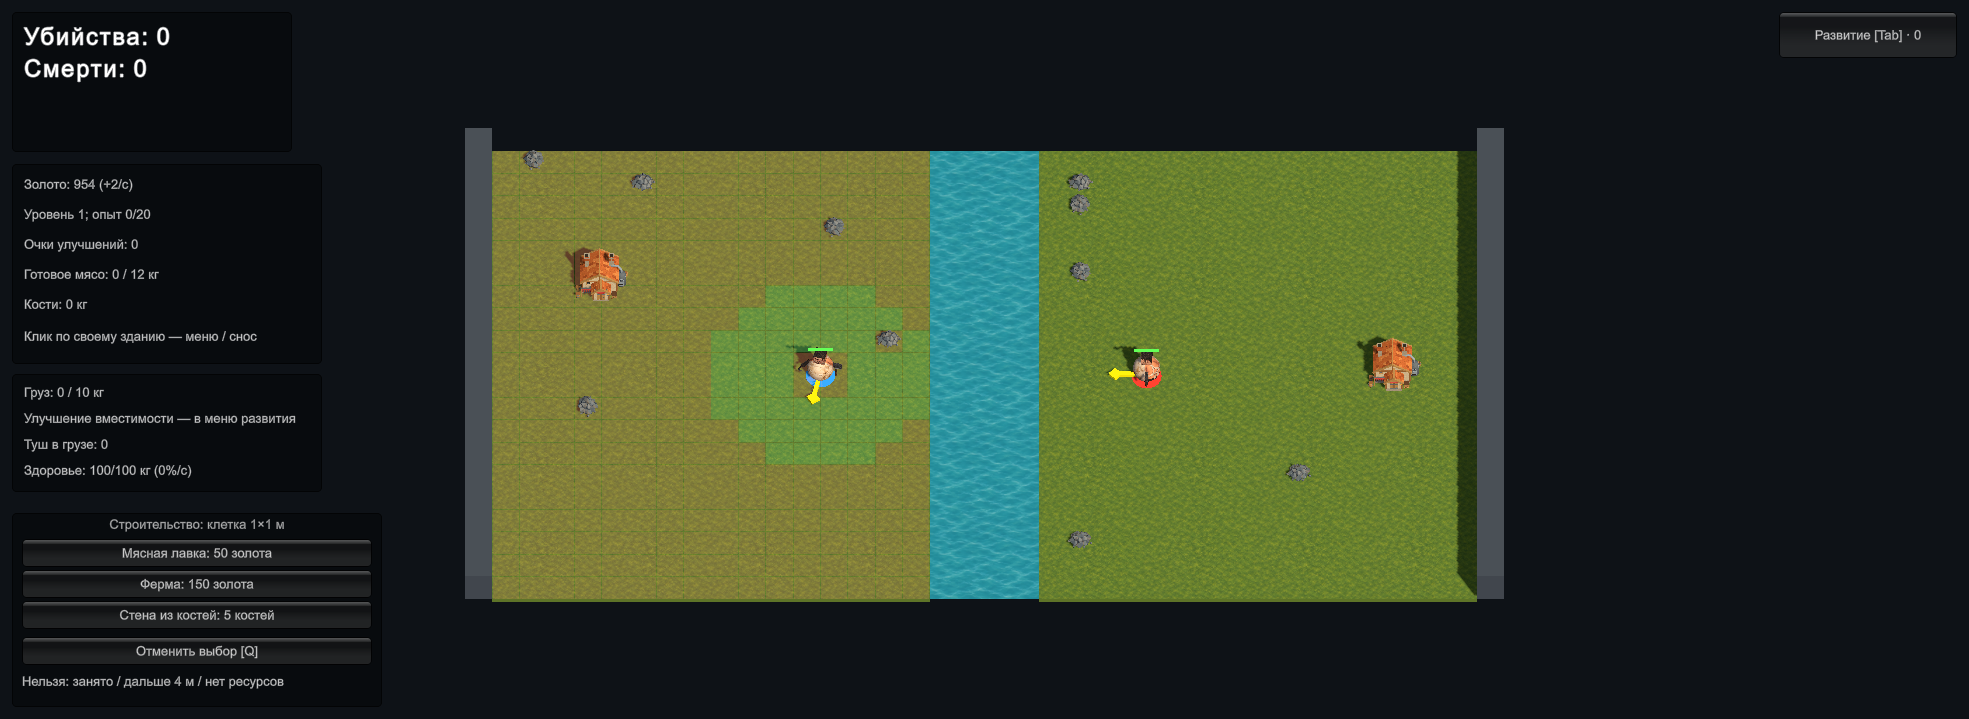
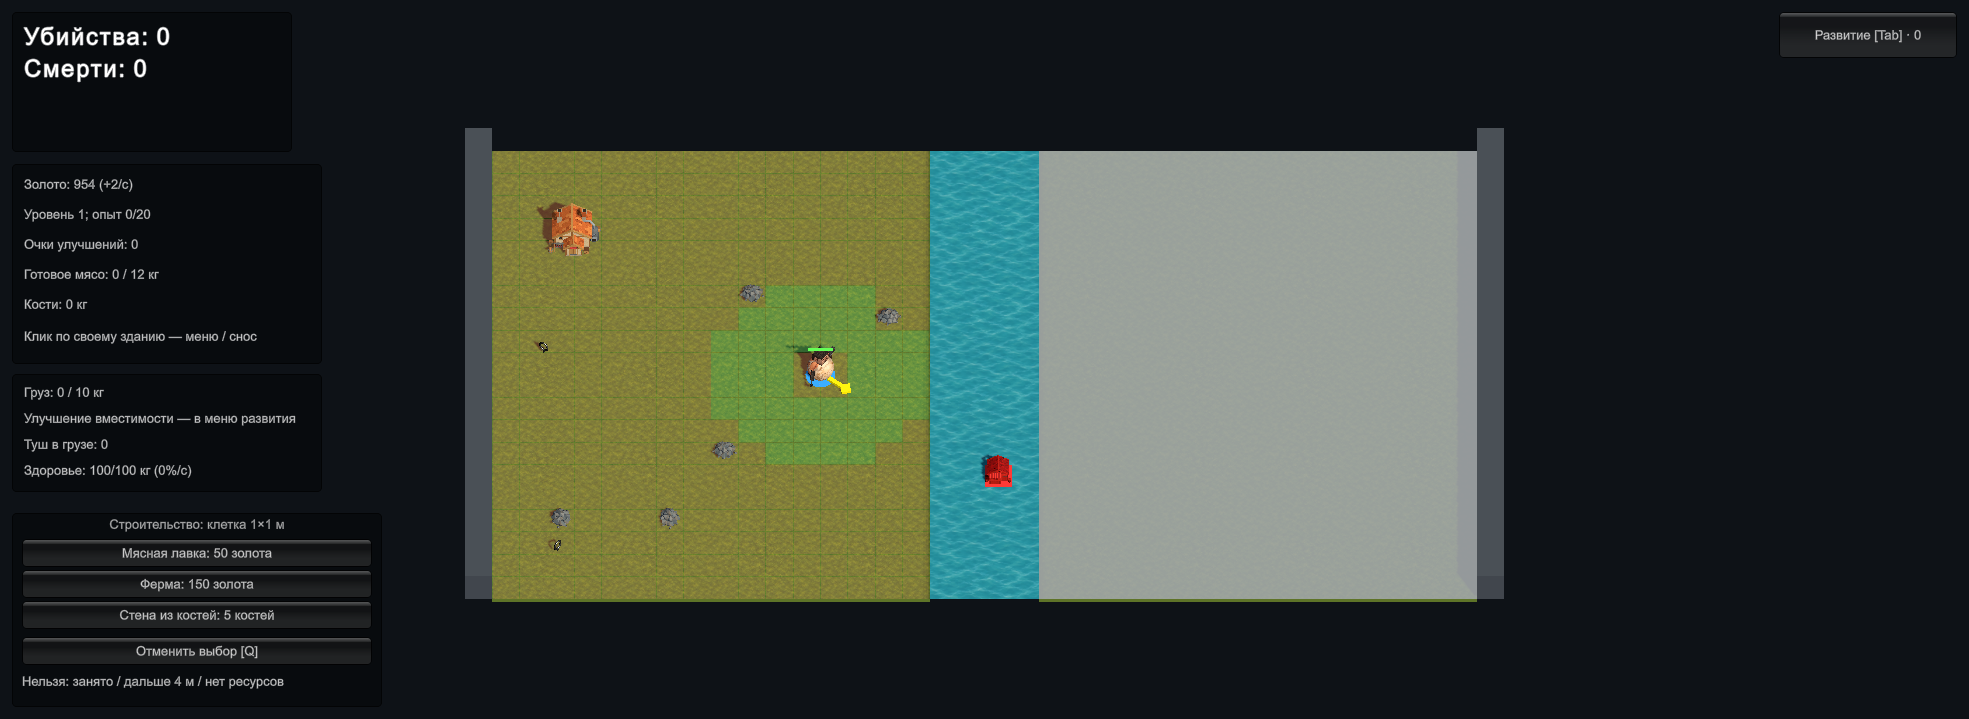
Add player fog of war with hero and hook reveals and shoreline shading

diff --git a/Assets/Scripts/FogOfWar25D.cs b/Assets/Scripts/FogOfWar25D.cs
@@ -1,0 +1,110 @@
+using System.Collections.Generic;
+using UnityEngine;
+using UnityEngine.Rendering;
+
+// Player-perspective visibility. No physics, target selection or persistent exploration.
+[DefaultExecutionOrder(1700)]
+public sealed class FogOfWar25D : MonoBehaviour
+{
+    private ArenaPresentation25D display;
+    private PlayerBuilding viewer;
+    private PlayerProgression owner;
+    private Material material;
+    private Mesh mesh;
+    private Color[] colors;
+    private Vector2[] points;
+    private float depth;
+    private float nextPaint;
+    private readonly List<Vector2> eyes=new List<Vector2>();
+    private readonly List<Vector2> routeStart=new List<Vector2>(),routeEnd=new List<Vector2>();
+    private readonly Dictionary<GameObject,Renderer[]> renderers=new Dictionary<GameObject,Renderer[]>();
+    private readonly Dictionary<Light,int> lightMasks=new Dictionary<Light,int>();
+    private readonly List<GameObject> retired=new List<GameObject>();
+    public const float HeroRadius=4,HookRadius=1;
+    public void Bind(ArenaPresentation25D presentation,PlayerBuilding player,Material template)
+    {
+        display=presentation;viewer=player;owner=viewer.GetComponent<PlayerProgression>();
+        material=new Material(template);material.SetFloat("_UseVertexColor",1);material.SetColor("_BaseColor",Color.white);material.renderQueue=3010;
+        mesh=new Mesh{name="Enemy bank fog"};mesh.MarkDynamic();gameObject.AddComponent<MeshFilter>().sharedMesh=mesh;
+        var renderer=gameObject.AddComponent<MeshRenderer>();renderer.sharedMaterial=material;renderer.shadowCastingMode=ShadowCastingMode.Off;renderer.receiveShadows=false;
+        BuildMesh();RefreshObservers();
+    }
+    private bool Friendly(Health h)=>h.GetComponent<PlayerProgression>()==owner||h.GetComponent<ButcherHelper>()?.Factory?.Owner==owner;
+    public void RefreshObservers()
+    {
+        eyes.Clear();routeStart.Clear();routeEnd.Clear();
+        foreach(var h in FindObjectsByType<Health>())
+            if(!h.IsDead&&Friendly(h)&&Mathf.Abs(h.transform.position.x)>=ArenaLayout.RiverHalfWidth&&(h.transform.position.x>0)!=viewer.HomeRightBank)eyes.Add(h.transform.position);
+        foreach(var hook in FindObjectsByType<HookAbility>())
+        {
+            if(hook.ActiveHook==null||hook.GetComponent<PlayerProgression>()!=owner)continue;
+            for(int i=1;i<hook.ChainPointCount;i++){routeStart.Add(hook.GetChainPoint(i-1));routeEnd.Add(hook.GetChainPoint(i));}
+        }
+    }
+    private float SignedDistance(Vector2 point)
+    {
+        float distance=float.PositiveInfinity;
+        foreach(var eye in eyes)distance=Mathf.Min(distance,Vector2.Distance(eye,point)-HeroRadius);
+        for(int i=0;i<routeStart.Count;i++)
+        {
+            Vector2 a=routeStart[i],d=routeEnd[i]-a;
+            float t=d.sqrMagnitude>.000001f?Mathf.Clamp01(Vector2.Dot(point-a,d)/d.sqrMagnitude):0;
+            distance=Mathf.Min(distance,Vector2.Distance(a+d*t,point)-HookRadius);
+        }
+        return distance;
+    }
+    public bool IsRevealed(Vector2 point)=>Mathf.Abs(point.x)<=ArenaLayout.RiverHalfWidth||(point.x>0)==viewer.HomeRightBank||SignedDistance(point)<=0;
+    private bool WorldVisible(Vector3 point)=>IsRevealed(ArenaSpace25D.ToLogical(point));
+    private void BuildMesh()
+    {
+        depth=ArenaLayout.Depth;var bank=ArenaLayout.BankBounds(!viewer.HomeRightBank,0);
+        var vertices=new List<Vector3>();var triangles=new List<int>();var logical=new List<Vector2>();
+        const float step=.25f;
+        for(float x=bank.xMin;x<bank.xMax-.001f;x+=step)for(float y=bank.yMin;y<bank.yMax-.001f;y+=step)
+        {
+            int n=vertices.Count;
+            foreach(var p in new[]{new Vector2(x,y),new Vector2(x,y+step),new Vector2(x+step,y+step),new Vector2(x+step,y)})
+            {logical.Add(p);vertices.Add(ArenaSpace25D.ToWorld(p,.025f));}
+            triangles.Add(n);triangles.Add(n+1);triangles.Add(n+2);triangles.Add(n);triangles.Add(n+2);triangles.Add(n+3);
+        }
+        points=logical.ToArray();colors=new Color[points.Length];mesh.Clear();mesh.SetVertices(vertices);mesh.SetTriangles(triangles,0);mesh.RecalculateBounds();nextPaint=0;
+    }
+    private void LateUpdate()
+    {
+        if(viewer==null||display==null)return;
+        if(depth!=ArenaLayout.Depth)BuildMesh();
+        RefreshObservers();
+        if(Time.unscaledTime>=nextPaint)
+        {
+            nextPaint=Time.unscaledTime+.08f;
+            for(int i=0;i<points.Length;i++)
+            {
+                float alpha=.78f*Mathf.SmoothStep(0,1,Mathf.Clamp01(SignedDistance(points[i])/.35f));
+                colors[i]=new Color(.38f,.40f,.42f,alpha);
+            }
+            mesh.colors=colors;
+        }
+        foreach(var pair in display.Views)
+        {
+            if(pair.Key==null||pair.Value==null)continue;
+            bool visible=IsRevealed(pair.Key.transform.position);
+            if(!renderers.TryGetValue(pair.Value,out var list)||pair.Key is Health)
+            {list=pair.Value.GetComponentsInChildren<Renderer>(true);renderers[pair.Value]=list;}
+            foreach(var renderer in list)if(renderer!=null)renderer.forceRenderingOff=!visible;
+            foreach(var light in pair.Value.GetComponentsInChildren<Light>(true))
+            {
+                if(!lightMasks.TryGetValue(light,out int mask)){mask=light.cullingMask;lightMasks.Add(light,mask);}
+                light.cullingMask=visible?mask:0;
+            }
+        }
+        foreach(var chain in FindObjectsByType<HookChain25D>())foreach(var span in chain.Spans)span.SetPresentationVisibility(WorldVisible);
+        retired.Clear();foreach(var pair in renderers)if(pair.Key==null)retired.Add(pair.Key);foreach(var old in retired)renderers.Remove(old);
+    }
+    private void OnDisable()
+    {
+        foreach(var list in renderers.Values)foreach(var renderer in list)if(renderer!=null)renderer.forceRenderingOff=false;
+        foreach(var pair in lightMasks)if(pair.Key!=null)pair.Key.cullingMask=pair.Value;
+        foreach(var chain in FindObjectsByType<HookChain25D>())foreach(var span in chain.Spans)span.SetPresentationVisibility(_=>true);
+    }
+    private void OnDestroy(){if(mesh!=null)Destroy(mesh);if(material!=null)Destroy(material);}
+}

diff --git a/Assets/Editor/GameplayExpansionChecks.cs b/Assets/Editor/GameplayExpansionChecks.cs
@@ -22,6 +22,9 @@ public static class GameplayExpansionChecks
     static Quaternion meatRotation;
     static int worldDepthIndex;
     static bool worldRotationCaptured;
+    static FogOfWar25D fog;
+    static Vector3 fogOrigin, fogTarget, fogProbe;
+    static ButcherHelper fogHelper;
     static GameplayExpansionChecks() { if (SessionState.GetBool(Key, false)) Subscribe(); }
     public static void Run(string name)
     {
@@ -93,6 +96,7 @@ public static class GameplayExpansionChecks
             if(phase==0){EditorApplication.isPlaying=true;phase=1;return;}
             if(!EditorApplication.isPlaying||Time.time<due)return;
             if(stage=="world"){WorldTick();return;}
+            if(stage=="fog"){FogTick();return;}
             if(phase==1)
             {
                 foreach(var a in Object.FindObjectsByType<EnemyHookAI>())a.enabled=false;
@@ -239,4 +243,68 @@ public static class GameplayExpansionChecks
             SessionState.SetBool(Key+".Passed",true);Debug.Log("HOOKWARS_EXPANSION_WORLD_PASS: "+count);Stop();
         }
     }
+    static void CaptureFog(string name)
+    {
+        EditorWindow.GetWindow(typeof(EditorWindow).Assembly.GetType("UnityEditor.GameView")).Show();
+        ScreenCapture.CaptureScreenshot("docs/validation/016-fog-"+name+".png");
+    }
+    static void FogTick()
+    {
+        var display=Object.FindAnyObjectByType<ArenaPresentation25D>();
+        var enemy=Object.FindAnyObjectByType<EnemyChase>().GetComponent<Health>();
+        if(phase==1)
+        {
+            DisableAI();var movement=Object.FindAnyObjectByType<PlayerMovement>();movement.enabled=false;player=movement.GetComponent<Health>();
+            fog=Object.FindAnyObjectByType<FogOfWar25D>();if(fog==null||display.VisualFor(enemy)==null)return;
+            fogOrigin=player.transform.position;fogTarget=enemy.transform.position;fog.RefreshObservers();
+            Check(!fog.IsRevealed(fogTarget),"Enemy at home does not reveal its own fog");
+            Check(display.VisualFor(enemy).GetComponentsInChildren<Renderer>().All(r=>r.forceRenderingOff),"Enemy mesh and health bar really hidden, not just tinted");
+            Check(fog.IsRevealed(fogOrigin)&&fog.IsRevealed(Vector2.zero),"Own bank and neutral river stay visible");
+            CaptureFog("hidden");phase=2;due=Time.time+.25f;return;
+        }
+        if(phase==2)
+        {
+            player.transform.position=fogTarget+Vector3.up*3;fog.RefreshObservers();
+            Check(fog.IsRevealed(fogTarget)&&!fog.IsRevealed((Vector2)player.transform.position+Vector2.down*5),"Friendly hero reveals exactly four-meter circle on enemy bank");
+            phase=3;due=Time.time+.2f;return;
+        }
+        if(phase==3)
+        {
+            Check(display.VisualFor(enemy).GetComponentsInChildren<Renderer>().Any(r=>r.enabled&&!r.forceRenderingOff),"Approaching hero restores actual enemy renderers");CaptureFog("hero");
+            phase=8;due=Time.time+.15f;return;
+        }
+        if(phase==8)
+        {
+            player.transform.position=fogOrigin;
+            fogHelper=Object.Instantiate(AssetDatabase.LoadAssetAtPath<ButcherHelper>(GameplayRevisionSetup.HelperPath),fogTarget+Vector3.up*3,Quaternion.identity);
+            fogHelper.Bind(player.GetComponent<OwnerEconomy>().Factory,10);fogHelper.enabled=false;fogHelper.GetComponent<CarcassCarrier>().enabled=false;
+            due=Time.time+.2f;phase=4;return;
+        }
+        if(phase==4)
+        {
+            fog.RefreshObservers();Check(fog.IsRevealed(fogTarget),"Owned helper also reveals its surroundings");Object.DestroyImmediate(fogHelper.gameObject);
+            foreach(var rock in Object.FindObjectsByType<PermanentRock>())Object.DestroyImmediate(rock.gameObject);
+            foreach(var anchor in Object.FindObjectsByType<HookAnchor>())Object.DestroyImmediate(anchor.gameObject);
+            travelHook=player.GetComponent<HookAbility>();EconomyChecks.Set(travelHook,"targetLayers",(LayerMask)0);
+            ReadyHookForFog();travelHook.TryThrow((Vector2)(fogTarget+Vector3.up*3-fogOrigin));
+            started=Time.time;due=0;phase=5;return;
+        }
+        if(phase==5)
+        {
+            if((travelHook.ActiveHook==null||travelHook.ActiveHook.position.x<4.2f)&&Time.time-started<3)return;
+            Check(travelHook.ActiveHook!=null&&travelHook.ActiveHook.position.x>2,"Real hook entered enemy bank");
+            fog.RefreshObservers();Vector2 p=travelHook.ActiveHook.position,d=(p-(Vector2)fogOrigin).normalized,side=new Vector2(-d.y,d.x);
+            Check(fog.IsRevealed(p+side*.9f)&&!fog.IsRevealed(p+side*1.5f),"Hook route reveals one meter each side without widening the whole bank");
+            CaptureFog("hook");fogProbe=p;due=Time.time+.15f;phase=6;return;
+        }
+        if(phase==6){travelHook.CancelHook();due=Time.time+.2f;phase=7;return;}
+        if(phase==7)
+        {
+            fog.RefreshObservers();Check(!fog.IsRevealed(fogProbe),"Returned hook leaves no permanently explored corridor");
+            Check(display.VisualFor(enemy).GetComponentsInChildren<Renderer>().All(r=>r.forceRenderingOff),"Enemy becomes hidden again when observers leave");
+            File.WriteAllText("docs/validation/016-fog.txt",$"PASS: {count} actual Unity Play Mode assertions\nPlayer perspective; own bank and river; real enemy renderer hiding; hero/helper circles; actual flying hook corridor and its removal. Random terrain removed only from the corridor test fixture.\n");
+            SessionState.SetBool(Key+".Passed",true);Debug.Log("HOOKWARS_EXPANSION_FOG_PASS: "+count);Stop();
+        }
+    }
+    static void ReadyHookForFog(){travelHook.CancelHook();EconomyChecks.Set(travelHook,"nextThrowTime",0f);}
 }

diff --git a/Assets/Scripts/ArenaPresentation25D.cs b/Assets/Scripts/ArenaPresentation25D.cs
@@ -37,6 +37,7 @@ public class ArenaPresentation25D : MonoBehaviour
     // This allocates native Unity state: never construct it in a field initializer.
     private MaterialPropertyBlock previewProperties;
     private Dictionary<Component, GameObject> views = new Dictionary<Component, GameObject>();
+    public IReadOnlyDictionary<Component,GameObject> Views=>views;
     private Dictionary<HookAbility, GameObject> projectiles = new Dictionary<HookAbility, GameObject>();
     private List<Component> removed = new List<Component>();
     private List<Material> materials = new List<Material>();
@@ -97,8 +98,9 @@ public class ArenaPresentation25D : MonoBehaviour
         var cell=Primitive("Cell highlight",PrimitiveType.Cube,preview.transform,new Vector3(.98f,.004f,.98f),Color.green);cell.transform.localPosition=Vector3.up*.003f;
         preview.SetActive(false);
         var builder=FindAnyObjectByType<PlayerBuilding>();
-        if(builder!=null){var grid=new GameObject("Building grid");grid.transform.SetParent(generated.transform,false);grid.AddComponent<BuildGrid25D>().Bind(builder);}
+        if(builder!=null){var grid=new GameObject("Building grid");grid.transform.SetParent(generated.transform,false);grid.AddComponent<BuildGrid25D>().Bind(builder,overlayMaterial);}
         if(overlayMaterial!=null){var shores=new GameObject("Shorelines");shores.transform.SetParent(generated.transform,false);shores.AddComponent<Shoreline25D>().Bind(overlayMaterial);}
+        if(overlayMaterial!=null&&builder!=null){var fog=new GameObject("Enemy bank fog");fog.transform.SetParent(generated.transform,false);fog.AddComponent<FogOfWar25D>().Bind(this,builder,overlayMaterial);}
     }
     private void ApplyGroundTiling(string label, GameObject ground, Bounds bounds)
     {

diff --git a/Assets/Scripts/BuildGrid25D.cs b/Assets/Scripts/BuildGrid25D.cs
@@ -13,7 +13,7 @@ public sealed class BuildGrid25D : MonoBehaviour
     private readonly List<int>[] triangles={new List<int>(),new List<int>()};
     private float nextRefresh;
     public int VisibleCells {get;private set;}
-    public void Bind(PlayerBuilding source)
+    public void Bind(PlayerBuilding source,Material overlay)
     {
         builder=source;
         for(int i=0;i<2;i++)
@@ -21,9 +21,10 @@ public sealed class BuildGrid25D : MonoBehaviour
             var go=new GameObject(i==0?"Available cells":"Unavailable cells");go.transform.SetParent(transform,false);
             meshes[i]=new Mesh{name="Build grid cells"};meshes[i].MarkDynamic();go.AddComponent<MeshFilter>().sharedMesh=meshes[i];
             renderers[i]=go.AddComponent<MeshRenderer>();renderers[i].shadowCastingMode=ShadowCastingMode.Off;renderers[i].receiveShadows=false;
-            var m=new Material(Shader.Find("Universal Render Pipeline/Unlit"));materials[i]=m;
-            m.SetFloat("_Surface",1);m.SetFloat("_SrcBlend",(float)BlendMode.SrcAlpha);m.SetFloat("_DstBlend",(float)BlendMode.OneMinusSrcAlpha);
-            m.SetFloat("_ZWrite",0);m.EnableKeyword("_SURFACE_TYPE_TRANSPARENT");m.renderQueue=3000;
+            var m=overlay!=null?new Material(overlay):new Material(Shader.Find("Universal Render Pipeline/Unlit"));materials[i]=m;
+            if(overlay==null)
+            {m.SetFloat("_Surface",1);m.SetFloat("_SrcBlend",(float)BlendMode.SrcAlpha);m.SetFloat("_DstBlend",(float)BlendMode.OneMinusSrcAlpha);m.SetFloat("_ZWrite",0);m.EnableKeyword("_SURFACE_TYPE_TRANSPARENT");}
+            m.renderQueue=3000;
             m.SetColor("_BaseColor",i==0?new Color(.45f,1,.55f,.10f):new Color(1,.45f,.45f,.10f));renderers[i].sharedMaterial=m;
         }
     }

diff --git a/Assets/HookWarsChain/Runtime/PhysicalChain.Streaming.cs b/Assets/HookWarsChain/Runtime/PhysicalChain.Streaming.cs
@@ -21,6 +21,11 @@ namespace HookWars.Chain
         private readonly List<Collider> endpointObstacles=new List<Collider>();
         private readonly List<Collider> releaseContacts=new List<Collider>();
         public int EndpointCollisionExclusions { get {int count=0;foreach(var pairs in endpointIgnores.Values)count+=pairs.Count;return count;} }
+        public void SetPresentationVisibility(Func<Vector3,bool> visible)
+        {
+            foreach(var body in streamPool)if(body!=null)
+            {var renderer=body.GetComponentInChildren<Renderer>();if(renderer!=null)renderer.forceRenderingOff=!visible(body.position);}
+        }
         private Vector3 requestedStart,requestedEnd;
         private Vector3 previousStart,previousEnd;
         private float issuedLength;

diff --git a/Assets/Scripts/Shoreline25D.cs b/Assets/Scripts/Shoreline25D.cs
@@ -11,7 +11,7 @@ public sealed class Shoreline25D : MonoBehaviour
         mesh=new Mesh{name="Shore strip"};mesh.vertices=new[]{new Vector3(-.5f,0,-.5f),new Vector3(-.5f,0,.5f),new Vector3(.5f,0,.5f),new Vector3(.5f,0,-.5f)};
         mesh.triangles=new[]{0,1,2,0,2,3};mesh.RecalculateBounds();
         float[] widths={.06f,.08f,.12f},alpha={.35f,.20f,.08f};
-        for(int i=0;i<3;i++)materials[i]=new Material(overlay){color=new Color(.10f,.13f,.07f,alpha[i])};
+        for(int i=0;i<3;i++){materials[i]=new Material(overlay);materials[i].SetColor("_BaseColor",new Color(.10f,.13f,.07f,alpha[i]));}
         foreach(int side in new[]{-1,1})
         {
             float offset=0;

diff --git a/docs/specs/016-gameplay-expansion.md b/docs/specs/016-gameplay-expansion.md
@@ -106,3 +106,26 @@ Physics mean1,168мс/peak28,525мс. Разлёт не воспроизвёлс
 без роста числа Rigidbody/joints, смерть. Максимум ошибки0,1640618м.
 Профиль сохранён в016-chain-regression.txt. Пики CPU остаются ограничением
 длинных/множественных цепей; это prototype PhysX, не spline-анимация.
+
+## Туман и берег
+
+По подтверждению пользователя видимость от лица игрока. FogOfWar25D:
+чужой берег покрыт серой пеленой alpha.78, мягкий край раскрытия.35м.
+Круг4м открывают только живой свой герой/свои помощники на чужой суше;
+отрезки текущего маршрута своего крюка — полосу шириной2м. После ухода/
+возврата разведка не сохраняется. Свой берег и вся нейтральная река видны.
+Enemy, находясь дома, не раскрывает самого себя. ИИ/экономика/физика не
+останавливаются туманом — меняется только отображение.
+
+Не только пелена: forceRenderingOff скрывает модели, бары, частицы, груз,
+камни и хваты по действительной видимости; скрытые источники света не
+освещают землю. Звенья проверяются по мировым позициям без вмешательства
+в PhysX. Новые модели/груз попадают под маску автоматически. Прозрачный
+mesh.25м с vertex alpha не имеет коллайдеров, обновляется каждые.08с;
+список наблюдателей обновляется каждый LateUpdate. Меш следует ArenaLayout.
+10утверждений настоящего Play Mode, реальные016-fog-*.png просмотрены.
+
+Контактная тень у воды — три узкие полосы на каждом берегу общей шириной.26м,
+alpha.35/.20/.08. Геометрическая высота поля и игровая физика не меняются.
+Для тумана/берега/сетки используется один явно включённый в сцену shader
+FieldOverlay, чтобы сборка не зависела от неиспользуемого runtime URP-варианта.

diff --git a/docs/current-state.md b/docs/current-state.md
@@ -22,6 +22,11 @@ joints и локальная защита скорости устранили р
 ошибка.314м,245тел/коллайдеров, physics mean1.168мс/peak28.525мс.
 Дополнительно прошли32штатные проверки двух30м цепей, возврата/пути отскоков/
 уничтожения стены/пула/смерти, максимум ошибки.164м. См.spec016 и отчёты016-chain-*.
+Туман016: серый слой только чужого берега; модели/HP/FX/чужие звенья скрыты,
+а не просто перекрашены. Герой/свои помощники на чужом берегу открывают4м,
+реальный маршрут своего крюка открывает по1м, после ухода всё закрывается.
+Своя земля и нейтральная река видны.10утверждений Play Mode прошли,
+реальные кадры скрытого берега/областей раскрытия просмотрены.
 
 Unity6000.6.6f1, ветка feature/arena-25d. Актуальные доработки:
 [009 — развитие, карта и помощники](specs/009-gameplay-development.md).
